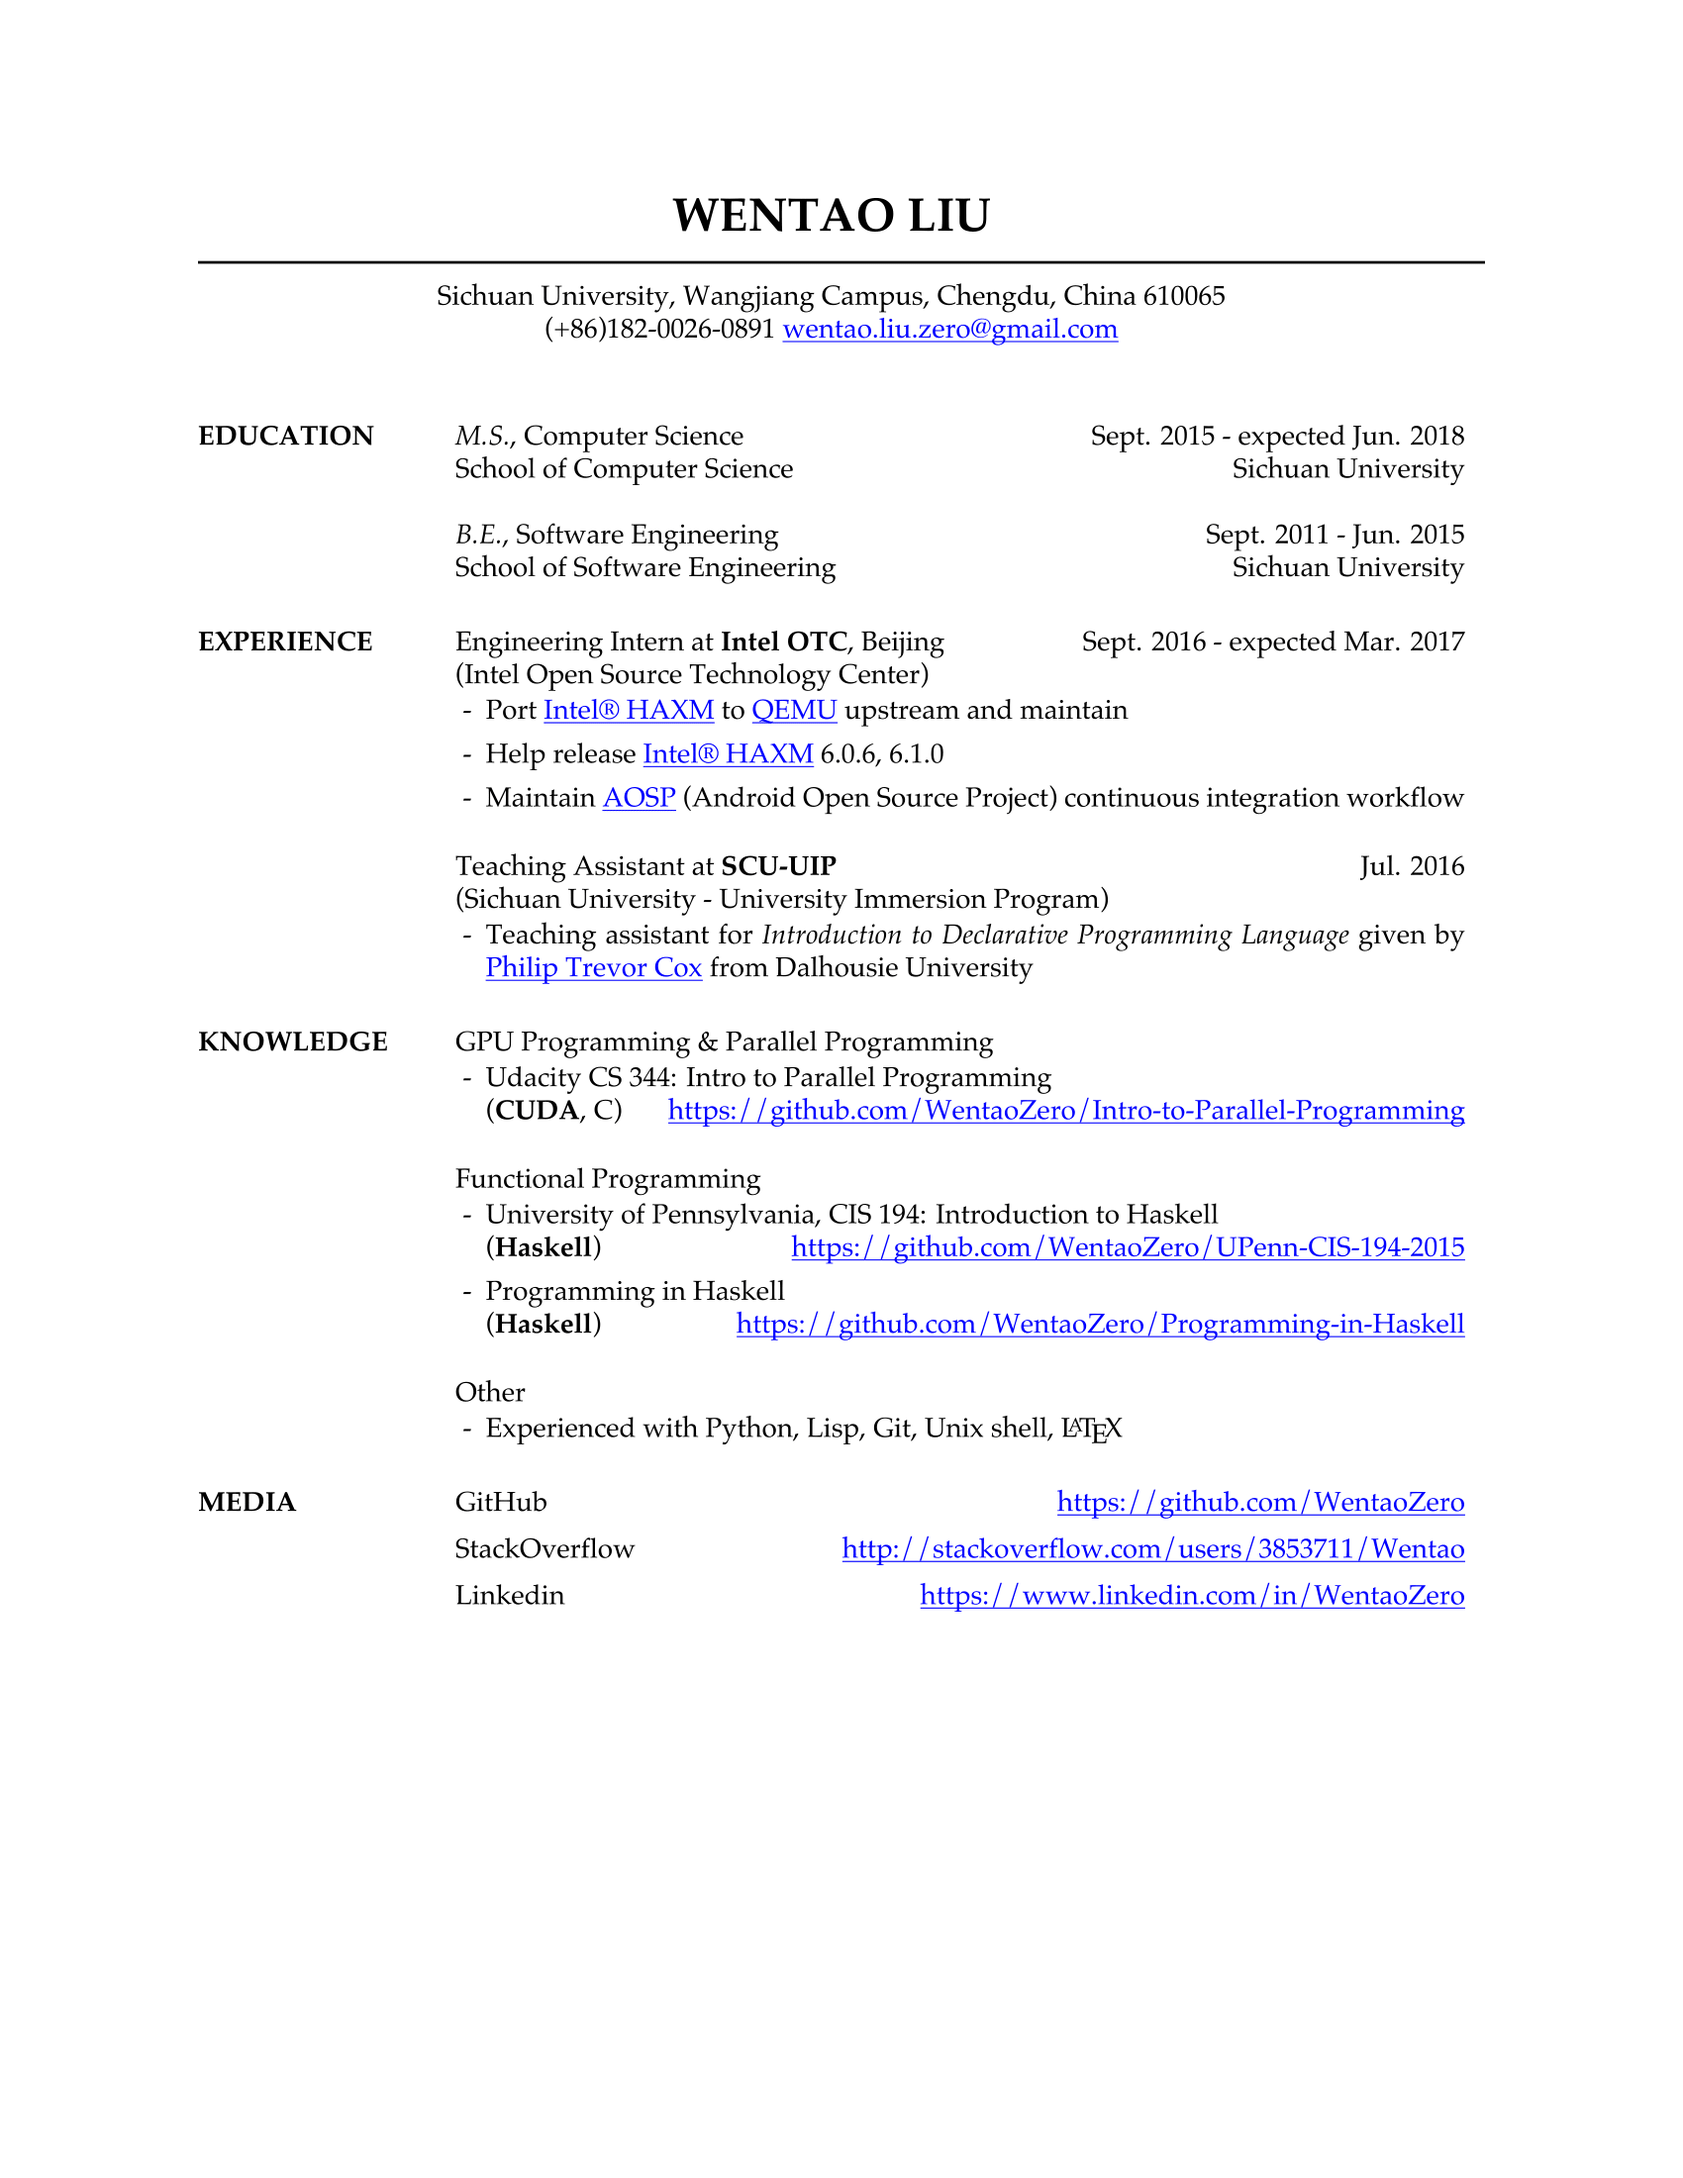
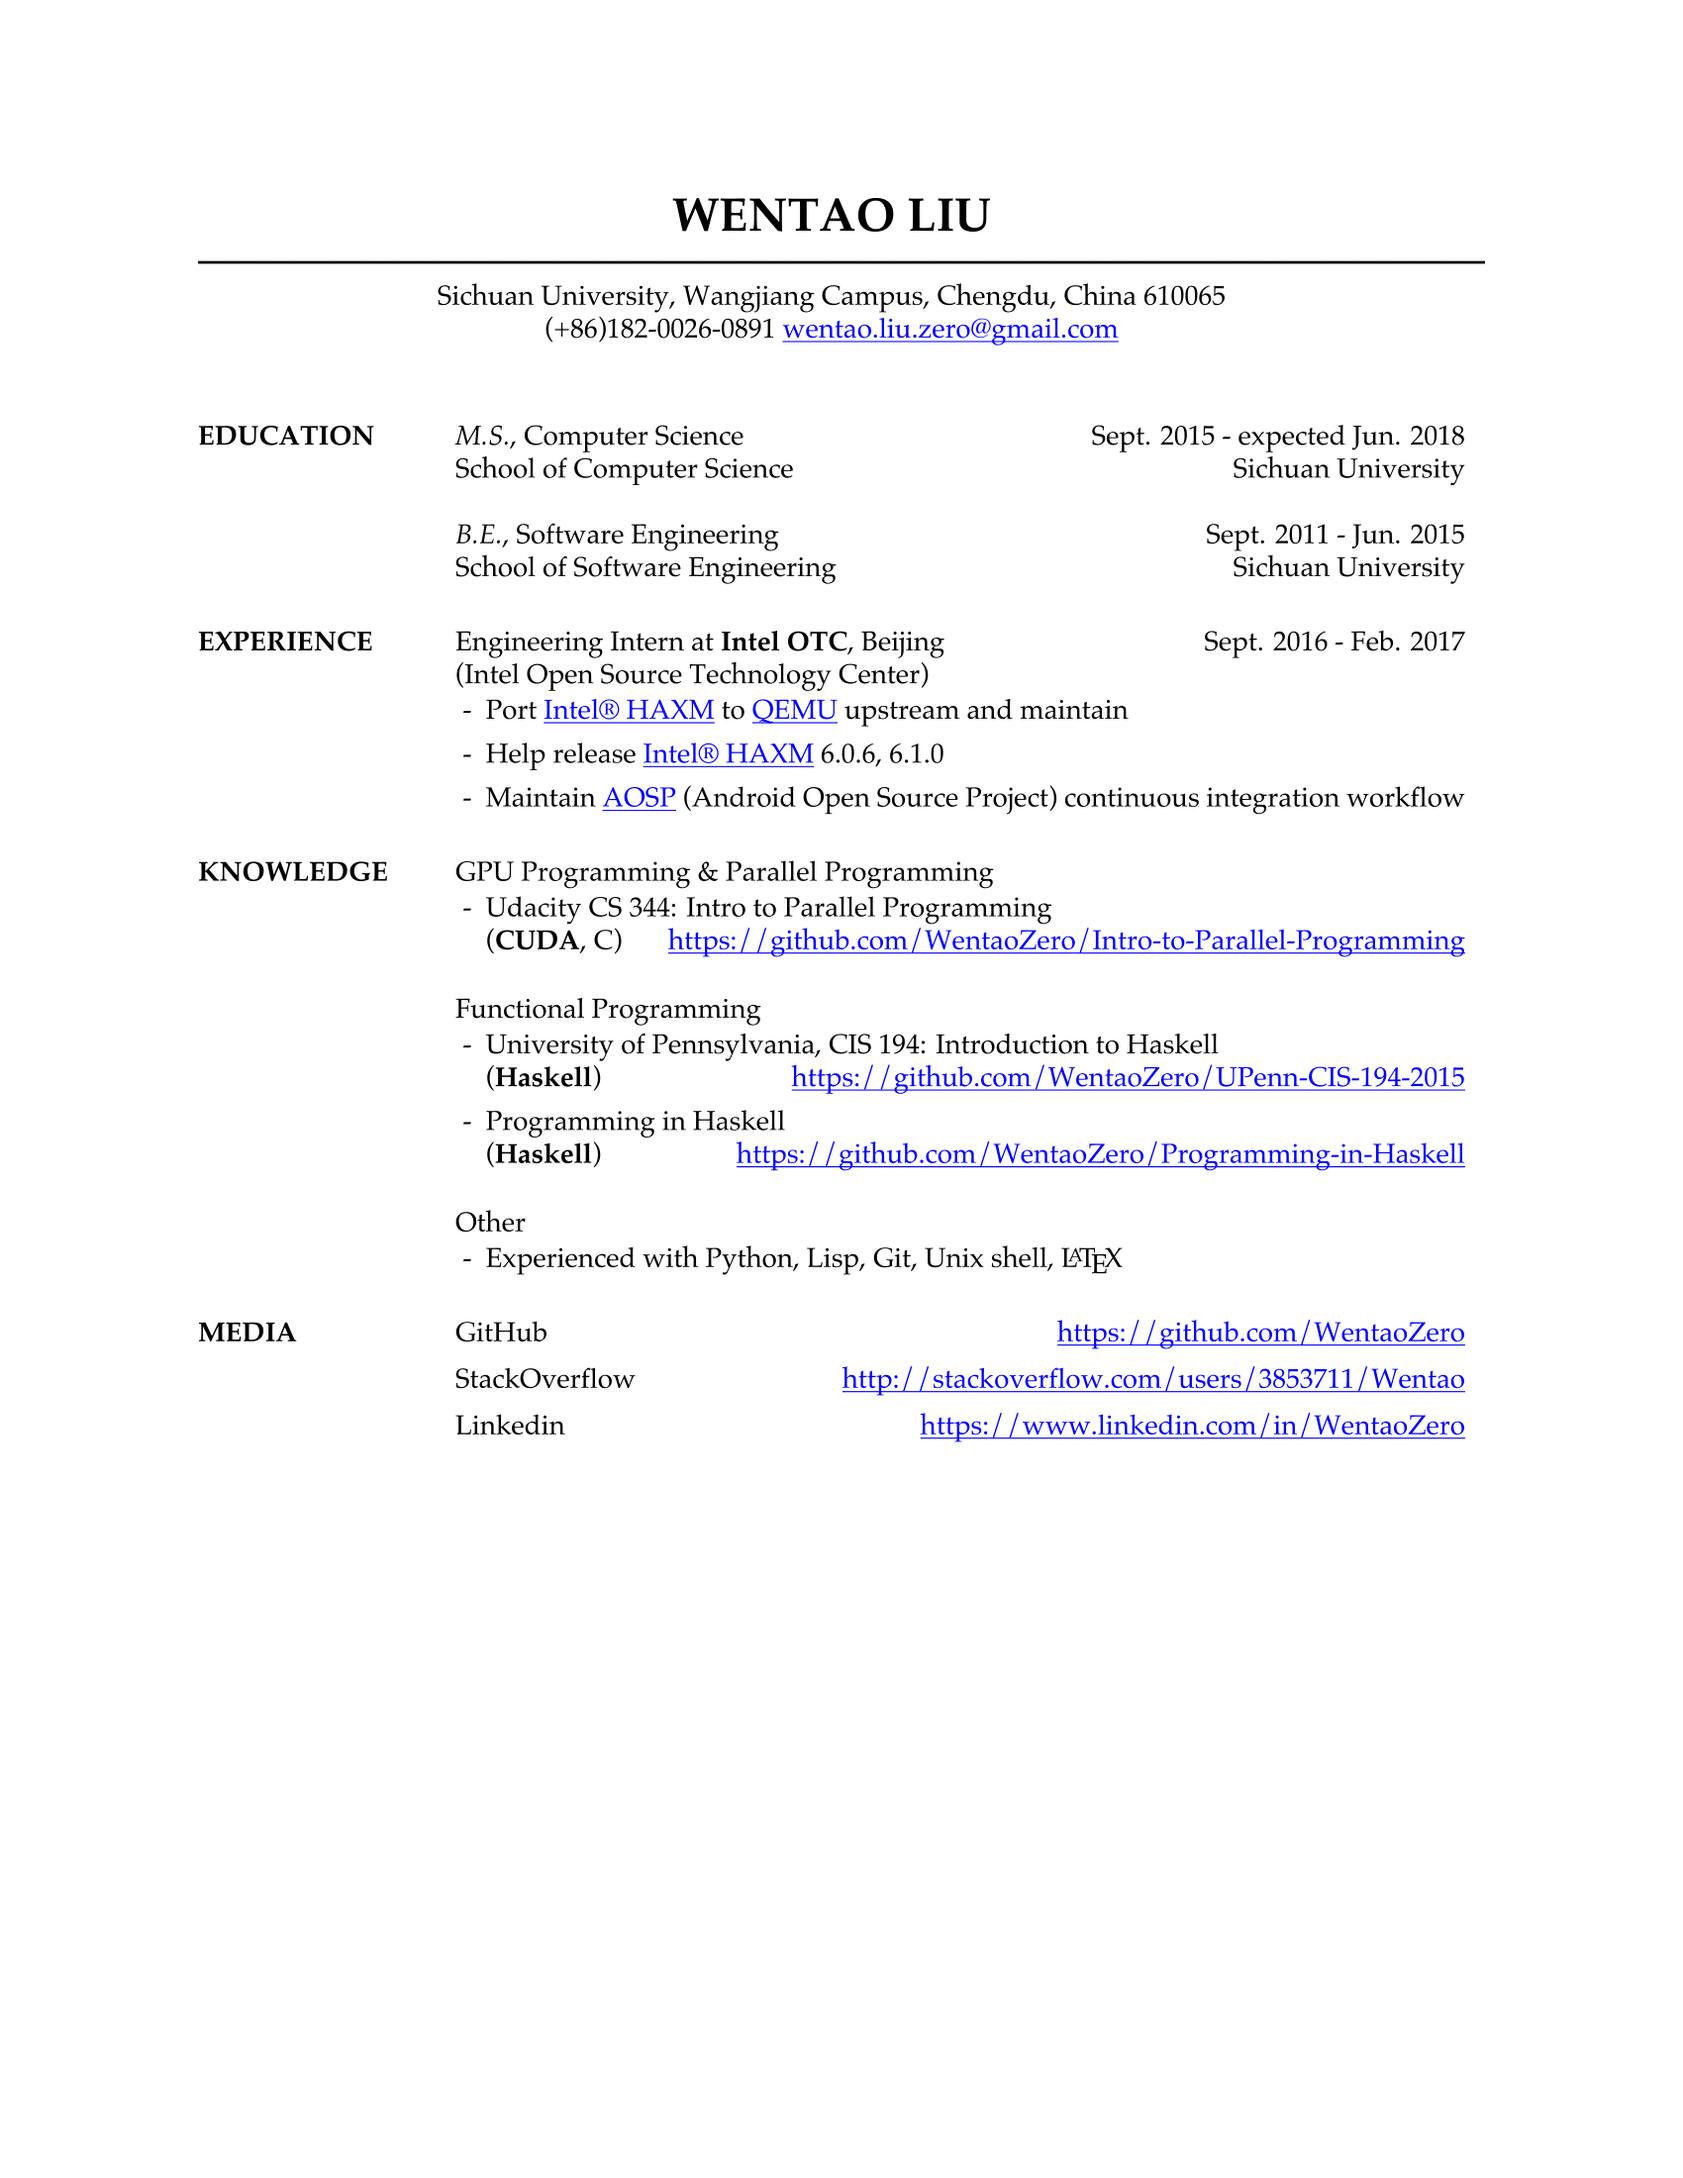
remove TA exp

diff --git a/Resume-Wentao-Liu.tex b/Resume-Wentao-Liu.tex
@@ -53,23 +53,13 @@
 
 	Engineering Intern at {\bf Intel OTC}, Beijing
 	\hspace*{\fill}
-	Sept. 2016 - expected Mar. 2017\\
+	Sept. 2016 - Feb. 2017\\
 	(Intel Open Source Technology Center)
 	\begin{itemize}[leftmargin=*, topsep=1pt]
 		\item[-] {Port {\HAXMlink} to {\QEMUlink} upstream and maintain}
 		\item[-] {Help release {\HAXMlink} 6.0.6, 6.1.0}
 		\item[-] {Maintain {\AOSPlink} (Android Open Source Project) continuous integration workflow}
 	\end{itemize}
-
-	\def \PhilpLink {\href {https://web.cs.dal.ca/~pcox/} {\underline{\smash{Philip Trevor Cox}}}}
-
-	Teaching Assistant at {\bf SCU-UIP}
-	\hspace*{\fill}
-	Jul. 2016\\(Sichuan University - University Immersion Program)
-	\begin{itemize}[leftmargin=*, topsep=1pt]
-		\item[-] {Teaching assistant for {\it Introduction to Declarative Programming Language} given by {\PhilpLink} from Dalhousie University}
-	\end{itemize}
-
 
 	\section{KNOWLEDGE}
 
